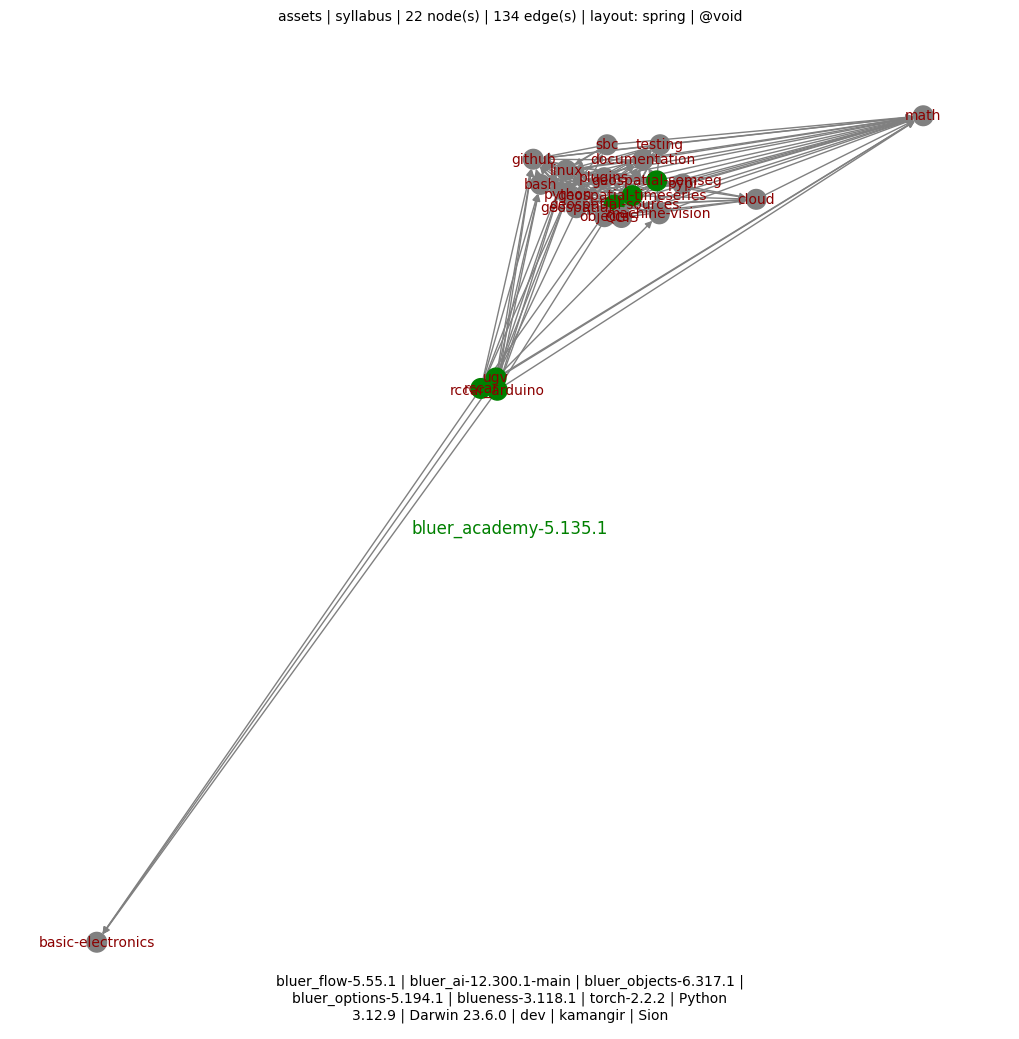
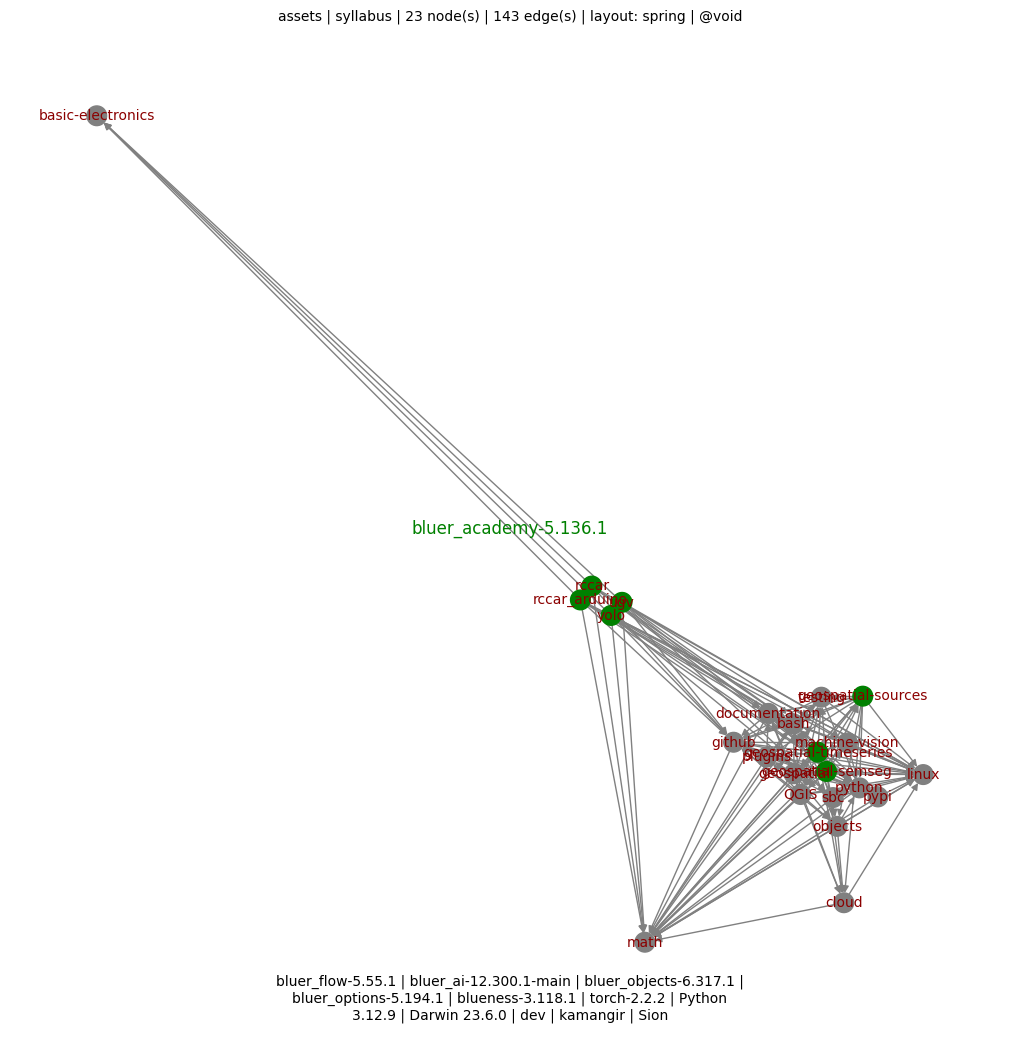
++ - kamangir/bolt#746

diff --git a/bluer_academy/academy/syllabus/yolo.py b/bluer_academy/academy/syllabus/yolo.py
@@ -1,0 +1,21 @@
+from bluer_objects.README.consts import assets_url
+
+
+from bluer_academy.academy.classes.topic import Topic
+from bluer_academy.academy.syllabus.consts import bluer_ugv_blob
+
+topic = Topic(
+    "yolo",
+    [
+        f"[Yolo on a UGV]({bluer_ugv_blob}/docs/arzhang/validation/village-3.md)",
+    ],
+    duration=3,
+    requires="machine-vision,ugv",
+    items={
+        assets_url(
+            "{object_name}/{object_name}.gif".format(
+                object_name="swallow-debug-2025-09-25-13-16-59-rnm7jd"
+            )
+        ): f"{bluer_ugv_blob}/docs/arzhang/validation/village-3.md"
+    },
+)

diff --git a/bluer_academy/academy/syllabus/__init__.py b/bluer_academy/academy/syllabus/__init__.py
@@ -22,6 +22,7 @@ from bluer_academy.academy.syllabus import (
     sbc,
     testing,
     ugv,
+    yolo,
 )
 
 syllabus = Syllabus(
@@ -50,6 +51,7 @@ syllabus = Syllabus(
             sbc,
             testing,
             ugv,
+            yolo,
         ]
     ]
 )

diff --git a/bluer_academy/__init__.py b/bluer_academy/__init__.py
@@ -4,7 +4,7 @@ ICON = "📐"
 
 DESCRIPTION = f"{ICON} an academy for practical AI in Iran."
 
-VERSION = "5.135.1"
+VERSION = "5.136.1"
 
 REPO_NAME = "bluer-academy"
 

diff --git a/bluer_academy/docs/academy/README.md b/bluer_academy/docs/academy/README.md
@@ -4,32 +4,33 @@
 
 ## syllabus
 
-| capstone project? | duration (hours) | duration, including requirements (hours) | depends on: | [bas...](./syllabus/basic-electronics.md) | [math](./syllabus/math.md) | [linux](./syllabus/linux.md) | [cloud](./syllabus/cloud.md) | [github](./syllabus/github.md) | [python](./syllabus/python.md) | [bash](./syllabus/bash.md) | [doc...](./syllabus/documentation.md) | [mac...](./syllabus/machine-vision.md) | [obj...](./syllabus/objects.md) | [pypi](./syllabus/pypi.md) | [sbc](./syllabus/sbc.md) | [tes...](./syllabus/testing.md) | [plu...](./syllabus/plugins.md) | [rccar](./syllabus/rccar.md) | [ugv](./syllabus/ugv.md) | [geo...](./syllabus/geospatial.md) | [rcc...](./syllabus/rccar_arduino.md) | [QGIS](./syllabus/QGIS.md) | [geo...](./syllabus/geospatial-sources.md) | [geo...](./syllabus/geospatial-semseg.md) | [geo...](./syllabus/geospatial-timeseries.md) |
-|-|-|-|-|-|-|-|-|-|-|-|-|-|-|-|-|-|-|-|-|-|-|-|-|-|-|
-|  | 6.0 | 6.0 | [basic-electronics](./syllabus/basic-electronics.md) |  |  |  |  |  |  |  |  |  |  |  |  |  |  |  |  |  |  |  |  |  |  |
-|  | 3.0 | 3.0 | [math](./syllabus/math.md) |  |  |  |  |  |  |  |  |  |  |  |  |  |  |  |  |  |  |  |  |  |  |
-|  | 3.0 | 6.0 | [linux](./syllabus/linux.md) |  | ℹ |  |  |  |  |  |  |  |  |  |  |  |  |  |  |  |  |  |  |  |  |
-|  | 6.0 | 12.0 | [cloud](./syllabus/cloud.md) |  | ℹ | ℹ |  |  |  |  |  |  |  |  |  |  |  |  |  |  |  |  |  |  |  |
-|  | 3.0 | 9.0 | [github](./syllabus/github.md) |  | ℹ | ℹ |  |  |  |  |  |  |  |  |  |  |  |  |  |  |  |  |  |  |  |
-|  | 12.0 | 21.0 | [python](./syllabus/python.md) |  | ℹ | ℹ |  | ℹ |  |  |  |  |  |  |  |  |  |  |  |  |  |  |  |  |  |
-|  | 3.0 | 24.0 | [bash](./syllabus/bash.md) |  | ℹ | ℹ |  | ℹ | ℹ |  |  |  |  |  |  |  |  |  |  |  |  |  |  |  |  |
-|  | 3.0 | 27.0 | [documentation](./syllabus/documentation.md) |  | ℹ | ℹ |  | ℹ | ℹ | ℹ |  |  |  |  |  |  |  |  |  |  |  |  |  |  |  |
-|  | 12.0 | 36.0 | [machine-vision](./syllabus/machine-vision.md) |  | ℹ | ℹ |  | ℹ | ℹ | ℹ |  |  |  |  |  |  |  |  |  |  |  |  |  |  |  |
-|  | 3.0 | 33.0 | [objects](./syllabus/objects.md) |  | ℹ | ℹ | ℹ | ℹ | ℹ | ℹ |  |  |  |  |  |  |  |  |  |  |  |  |  |  |  |
-|  | 3.0 | 27.0 | [pypi](./syllabus/pypi.md) |  | ℹ | ℹ |  | ℹ | ℹ | ℹ |  |  |  |  |  |  |  |  |  |  |  |  |  |  |  |
-|  | 3.0 | 27.0 | [sbc](./syllabus/sbc.md) |  | ℹ | ℹ |  | ℹ | ℹ | ℹ |  |  |  |  |  |  |  |  |  |  |  |  |  |  |  |
-|  | 6.0 | 30.0 | [testing](./syllabus/testing.md) |  | ℹ | ℹ |  | ℹ | ℹ | ℹ |  |  |  |  |  |  |  |  |  |  |  |  |  |  |  |
-|  | 3.0 | 36.0 | [plugins](./syllabus/plugins.md) |  | ℹ | ℹ |  | ℹ | ℹ | ℹ | ℹ |  |  |  |  | ℹ |  |  |  |  |  |  |  |  |  |
-| 📐 | 3.0 | 36.0 | [rccar](./syllabus/rccar.md) | ℹ | ℹ | ℹ |  | ℹ | ℹ | ℹ | ℹ |  |  |  |  |  |  |  |  |  |  |  |  |  |  |
-| 📐 | 12.0 | 57.0 | [ugv](./syllabus/ugv.md) | ℹ | ℹ | ℹ |  | ℹ | ℹ | ℹ |  | ℹ |  |  | ℹ |  |  |  |  |  |  |  |  |  |  |
-|  | 6.0 | 51.0 | [geospatial](./syllabus/geospatial.md) |  | ℹ | ℹ | ℹ | ℹ | ℹ | ℹ | ℹ |  | ℹ |  |  | ℹ | ℹ |  |  |  |  |  |  |  |  |
-| 📐 | 6.0 | 42.0 | [rccar_arduino](./syllabus/rccar_arduino.md) | ℹ | ℹ | ℹ |  | ℹ | ℹ | ℹ | ℹ |  |  |  |  |  |  | ℹ |  |  |  |  |  |  |  |
-|  | 3.0 | 54.0 | [QGIS](./syllabus/QGIS.md) |  | ℹ | ℹ | ℹ | ℹ | ℹ | ℹ | ℹ |  | ℹ |  |  | ℹ | ℹ |  |  | ℹ |  |  |  |  |  |
-| 📐 | 6.0 | 60.0 | [geospatial-sources](./syllabus/geospatial-sources.md) |  | ℹ | ℹ | ℹ | ℹ | ℹ | ℹ | ℹ |  | ℹ |  |  | ℹ | ℹ |  |  | ℹ |  | ℹ |  |  |  |
-| 📐 | 6.0 | 78.0 | [geospatial-semseg](./syllabus/geospatial-semseg.md) |  | ℹ | ℹ | ℹ | ℹ | ℹ | ℹ | ℹ | ℹ | ℹ |  |  | ℹ | ℹ |  |  | ℹ |  | ℹ | ℹ |  |  |
-| 📐 | 6.0 | 78.0 | [geospatial-timeseries](./syllabus/geospatial-timeseries.md) |  | ℹ | ℹ | ℹ | ℹ | ℹ | ℹ | ℹ | ℹ | ℹ |  |  | ℹ | ℹ |  |  | ℹ |  | ℹ | ℹ |  |  |
+| capstone project? | duration (hours) | duration, including requirements (hours) | depends on: | [bas...](./syllabus/basic-electronics.md) | [math](./syllabus/math.md) | [linux](./syllabus/linux.md) | [cloud](./syllabus/cloud.md) | [github](./syllabus/github.md) | [python](./syllabus/python.md) | [bash](./syllabus/bash.md) | [doc...](./syllabus/documentation.md) | [mac...](./syllabus/machine-vision.md) | [obj...](./syllabus/objects.md) | [pypi](./syllabus/pypi.md) | [sbc](./syllabus/sbc.md) | [tes...](./syllabus/testing.md) | [plu...](./syllabus/plugins.md) | [rccar](./syllabus/rccar.md) | [ugv](./syllabus/ugv.md) | [geo...](./syllabus/geospatial.md) | [rcc...](./syllabus/rccar_arduino.md) | [yolo](./syllabus/yolo.md) | [QGIS](./syllabus/QGIS.md) | [geo...](./syllabus/geospatial-sources.md) | [geo...](./syllabus/geospatial-semseg.md) | [geo...](./syllabus/geospatial-timeseries.md) |
+|-|-|-|-|-|-|-|-|-|-|-|-|-|-|-|-|-|-|-|-|-|-|-|-|-|-|-|
+|  | 6.0 | 6.0 | [basic-electronics](./syllabus/basic-electronics.md) |  |  |  |  |  |  |  |  |  |  |  |  |  |  |  |  |  |  |  |  |  |  |  |
+|  | 3.0 | 3.0 | [math](./syllabus/math.md) |  |  |  |  |  |  |  |  |  |  |  |  |  |  |  |  |  |  |  |  |  |  |  |
+|  | 3.0 | 6.0 | [linux](./syllabus/linux.md) |  | ℹ |  |  |  |  |  |  |  |  |  |  |  |  |  |  |  |  |  |  |  |  |  |
+|  | 6.0 | 12.0 | [cloud](./syllabus/cloud.md) |  | ℹ | ℹ |  |  |  |  |  |  |  |  |  |  |  |  |  |  |  |  |  |  |  |  |
+|  | 3.0 | 9.0 | [github](./syllabus/github.md) |  | ℹ | ℹ |  |  |  |  |  |  |  |  |  |  |  |  |  |  |  |  |  |  |  |  |
+|  | 12.0 | 21.0 | [python](./syllabus/python.md) |  | ℹ | ℹ |  | ℹ |  |  |  |  |  |  |  |  |  |  |  |  |  |  |  |  |  |  |
+|  | 3.0 | 24.0 | [bash](./syllabus/bash.md) |  | ℹ | ℹ |  | ℹ | ℹ |  |  |  |  |  |  |  |  |  |  |  |  |  |  |  |  |  |
+|  | 3.0 | 27.0 | [documentation](./syllabus/documentation.md) |  | ℹ | ℹ |  | ℹ | ℹ | ℹ |  |  |  |  |  |  |  |  |  |  |  |  |  |  |  |  |
+|  | 12.0 | 36.0 | [machine-vision](./syllabus/machine-vision.md) |  | ℹ | ℹ |  | ℹ | ℹ | ℹ |  |  |  |  |  |  |  |  |  |  |  |  |  |  |  |  |
+|  | 3.0 | 33.0 | [objects](./syllabus/objects.md) |  | ℹ | ℹ | ℹ | ℹ | ℹ | ℹ |  |  |  |  |  |  |  |  |  |  |  |  |  |  |  |  |
+|  | 3.0 | 27.0 | [pypi](./syllabus/pypi.md) |  | ℹ | ℹ |  | ℹ | ℹ | ℹ |  |  |  |  |  |  |  |  |  |  |  |  |  |  |  |  |
+|  | 3.0 | 27.0 | [sbc](./syllabus/sbc.md) |  | ℹ | ℹ |  | ℹ | ℹ | ℹ |  |  |  |  |  |  |  |  |  |  |  |  |  |  |  |  |
+|  | 6.0 | 30.0 | [testing](./syllabus/testing.md) |  | ℹ | ℹ |  | ℹ | ℹ | ℹ |  |  |  |  |  |  |  |  |  |  |  |  |  |  |  |  |
+|  | 3.0 | 36.0 | [plugins](./syllabus/plugins.md) |  | ℹ | ℹ |  | ℹ | ℹ | ℹ | ℹ |  |  |  |  | ℹ |  |  |  |  |  |  |  |  |  |  |
+| 📐 | 3.0 | 36.0 | [rccar](./syllabus/rccar.md) | ℹ | ℹ | ℹ |  | ℹ | ℹ | ℹ | ℹ |  |  |  |  |  |  |  |  |  |  |  |  |  |  |  |
+| 📐 | 12.0 | 57.0 | [ugv](./syllabus/ugv.md) | ℹ | ℹ | ℹ |  | ℹ | ℹ | ℹ |  | ℹ |  |  | ℹ |  |  |  |  |  |  |  |  |  |  |  |
+|  | 6.0 | 51.0 | [geospatial](./syllabus/geospatial.md) |  | ℹ | ℹ | ℹ | ℹ | ℹ | ℹ | ℹ |  | ℹ |  |  | ℹ | ℹ |  |  |  |  |  |  |  |  |  |
+| 📐 | 6.0 | 42.0 | [rccar_arduino](./syllabus/rccar_arduino.md) | ℹ | ℹ | ℹ |  | ℹ | ℹ | ℹ | ℹ |  |  |  |  |  |  | ℹ |  |  |  |  |  |  |  |  |
+| 📐 | 3.0 | 60.0 | [yolo](./syllabus/yolo.md) | ℹ | ℹ | ℹ |  | ℹ | ℹ | ℹ |  | ℹ |  |  | ℹ |  |  |  | ℹ |  |  |  |  |  |  |  |
+|  | 3.0 | 54.0 | [QGIS](./syllabus/QGIS.md) |  | ℹ | ℹ | ℹ | ℹ | ℹ | ℹ | ℹ |  | ℹ |  |  | ℹ | ℹ |  |  | ℹ |  |  |  |  |  |  |
+| 📐 | 6.0 | 60.0 | [geospatial-sources](./syllabus/geospatial-sources.md) |  | ℹ | ℹ | ℹ | ℹ | ℹ | ℹ | ℹ |  | ℹ |  |  | ℹ | ℹ |  |  | ℹ |  |  | ℹ |  |  |  |
+| 📐 | 6.0 | 78.0 | [geospatial-semseg](./syllabus/geospatial-semseg.md) |  | ℹ | ℹ | ℹ | ℹ | ℹ | ℹ | ℹ | ℹ | ℹ |  |  | ℹ | ℹ |  |  | ℹ |  |  | ℹ | ℹ |  |  |
+| 📐 | 6.0 | 78.0 | [geospatial-timeseries](./syllabus/geospatial-timeseries.md) |  | ℹ | ℹ | ℹ | ℹ | ℹ | ℹ | ℹ | ℹ | ℹ |  |  | ℹ | ℹ |  |  | ℹ |  |  | ℹ | ℹ |  |  |
 
-⏳ total duration: 117.0 hours
+⏳ total duration: 120.0 hours
 
 
 <details>
@@ -46,3 +47,4 @@
 | --- | --- | --- |
 | [![image](https://github.com/kamangir/assets/raw/main/palisades/palisades-analytics-2025-01-28-09-27-20-itglyy/thumbnail-039462-378510-palisades-analytics-2025-01-28-09-27-20-itglyy.gif?raw=true)](./syllabus/geospatial-semseg.md) | [![image](https://github.com/kamangir/assets/raw/main/blue-geo/Maxar-Open-Datacube.png?raw=true)](./syllabus/geospatial-sources.md) | [![image](https://github.com/kamangir/assets/raw/main/geo-watch-2025-05-23-2ck64x/geo-watch-2025-05-23-2ck64x.gif?raw=true)](./syllabus/geospatial-timeseries.md) |
 | [![image](https://github.com/kamangir/assets2/raw/main/ravin/20250723_095155~2_1.gif?raw=true)](./syllabus/rccar.md) | [![image](https://github.com/kamangir/assets2/raw/main/ravin4/20251014_164022.jpg?raw=true)](./syllabus/rccar_arduino.md) | [![image](https://github.com/kamangir/assets2/raw/main/arzhang/VID-20250905-WA0014_1.gif?raw=true)](./syllabus/ugv.md) |
+| [![image](https://github.com/kamangir/assets/raw/main/swallow-debug-2025-09-25-13-16-59-rnm7jd/swallow-debug-2025-09-25-13-16-59-rnm7jd.gif?raw=true)](./syllabus/yolo.md) |  |  |

diff --git a/bluer_academy/docs/academy/syllabus/math.md b/bluer_academy/docs/academy/syllabus/math.md
@@ -7,7 +7,7 @@ includes:
 ---
 
 
-➡ required for: [linux](./linux.md), [cloud](./cloud.md), [github](./github.md), [python](./python.md), [bash](./bash.md), [documentation](./documentation.md), [machine-vision](./machine-vision.md), [objects](./objects.md), [pypi](./pypi.md), [sbc](./sbc.md), [testing](./testing.md), [plugins](./plugins.md), [rccar](./rccar.md), [ugv](./ugv.md), [geospatial](./geospatial.md), [rccar_arduino](./rccar_arduino.md), [QGIS](./QGIS.md), [geospatial-sources](./geospatial-sources.md), [geospatial-semseg](./geospatial-semseg.md), [geospatial-timeseries](./geospatial-timeseries.md)
+➡ required for: [linux](./linux.md), [cloud](./cloud.md), [github](./github.md), [python](./python.md), [bash](./bash.md), [documentation](./documentation.md), [machine-vision](./machine-vision.md), [objects](./objects.md), [pypi](./pypi.md), [sbc](./sbc.md), [testing](./testing.md), [plugins](./plugins.md), [rccar](./rccar.md), [ugv](./ugv.md), [geospatial](./geospatial.md), [rccar_arduino](./rccar_arduino.md), [yolo](./yolo.md), [QGIS](./QGIS.md), [geospatial-sources](./geospatial-sources.md), [geospatial-semseg](./geospatial-semseg.md), [geospatial-timeseries](./geospatial-timeseries.md)
 
 ⏳ duration (hours): 3.0 - including requirements: 3.0
 

diff --git a/bluer_academy/docs/academy/syllabus/linux.md b/bluer_academy/docs/academy/syllabus/linux.md
@@ -7,7 +7,7 @@ includes:
 
 ⬅ requires: [math](./math.md)
 
-➡ required for: [cloud](./cloud.md), [github](./github.md), [python](./python.md), [bash](./bash.md), [documentation](./documentation.md), [machine-vision](./machine-vision.md), [objects](./objects.md), [pypi](./pypi.md), [sbc](./sbc.md), [testing](./testing.md), [plugins](./plugins.md), [rccar](./rccar.md), [ugv](./ugv.md), [geospatial](./geospatial.md), [rccar_arduino](./rccar_arduino.md), [QGIS](./QGIS.md), [geospatial-sources](./geospatial-sources.md), [geospatial-semseg](./geospatial-semseg.md), [geospatial-timeseries](./geospatial-timeseries.md)
+➡ required for: [cloud](./cloud.md), [github](./github.md), [python](./python.md), [bash](./bash.md), [documentation](./documentation.md), [machine-vision](./machine-vision.md), [objects](./objects.md), [pypi](./pypi.md), [sbc](./sbc.md), [testing](./testing.md), [plugins](./plugins.md), [rccar](./rccar.md), [ugv](./ugv.md), [geospatial](./geospatial.md), [rccar_arduino](./rccar_arduino.md), [yolo](./yolo.md), [QGIS](./QGIS.md), [geospatial-sources](./geospatial-sources.md), [geospatial-semseg](./geospatial-semseg.md), [geospatial-timeseries](./geospatial-timeseries.md)
 
 ⏳ duration (hours): 3.0 - including requirements: 6.0
 

diff --git a/bluer_academy/docs/academy/syllabus/github.md b/bluer_academy/docs/academy/syllabus/github.md
@@ -10,7 +10,7 @@ includes:
 
 ⬅ requires: [linux](./linux.md), [math](./math.md)
 
-➡ required for: [python](./python.md), [bash](./bash.md), [documentation](./documentation.md), [machine-vision](./machine-vision.md), [objects](./objects.md), [pypi](./pypi.md), [sbc](./sbc.md), [testing](./testing.md), [plugins](./plugins.md), [rccar](./rccar.md), [ugv](./ugv.md), [geospatial](./geospatial.md), [rccar_arduino](./rccar_arduino.md), [QGIS](./QGIS.md), [geospatial-sources](./geospatial-sources.md), [geospatial-semseg](./geospatial-semseg.md), [geospatial-timeseries](./geospatial-timeseries.md)
+➡ required for: [python](./python.md), [bash](./bash.md), [documentation](./documentation.md), [machine-vision](./machine-vision.md), [objects](./objects.md), [pypi](./pypi.md), [sbc](./sbc.md), [testing](./testing.md), [plugins](./plugins.md), [rccar](./rccar.md), [ugv](./ugv.md), [geospatial](./geospatial.md), [rccar_arduino](./rccar_arduino.md), [yolo](./yolo.md), [QGIS](./QGIS.md), [geospatial-sources](./geospatial-sources.md), [geospatial-semseg](./geospatial-semseg.md), [geospatial-timeseries](./geospatial-timeseries.md)
 
 ⏳ duration (hours): 3.0 - including requirements: 9.0
 

diff --git a/bluer_academy/docs/academy/syllabus/python.md b/bluer_academy/docs/academy/syllabus/python.md
@@ -12,7 +12,7 @@ includes:
 
 ⬅ requires: [github](./github.md), [linux](./linux.md), [math](./math.md)
 
-➡ required for: [bash](./bash.md), [documentation](./documentation.md), [machine-vision](./machine-vision.md), [objects](./objects.md), [pypi](./pypi.md), [sbc](./sbc.md), [testing](./testing.md), [plugins](./plugins.md), [rccar](./rccar.md), [ugv](./ugv.md), [geospatial](./geospatial.md), [rccar_arduino](./rccar_arduino.md), [QGIS](./QGIS.md), [geospatial-sources](./geospatial-sources.md), [geospatial-semseg](./geospatial-semseg.md), [geospatial-timeseries](./geospatial-timeseries.md)
+➡ required for: [bash](./bash.md), [documentation](./documentation.md), [machine-vision](./machine-vision.md), [objects](./objects.md), [pypi](./pypi.md), [sbc](./sbc.md), [testing](./testing.md), [plugins](./plugins.md), [rccar](./rccar.md), [ugv](./ugv.md), [geospatial](./geospatial.md), [rccar_arduino](./rccar_arduino.md), [yolo](./yolo.md), [QGIS](./QGIS.md), [geospatial-sources](./geospatial-sources.md), [geospatial-semseg](./geospatial-semseg.md), [geospatial-timeseries](./geospatial-timeseries.md)
 
 ⏳ duration (hours): 12.0 - including requirements: 21.0
 

diff --git a/bluer_academy/docs/academy/syllabus/bash.md b/bluer_academy/docs/academy/syllabus/bash.md
@@ -10,7 +10,7 @@ includes:
 
 ⬅ requires: [github](./github.md), [linux](./linux.md), [math](./math.md), [python](./python.md)
 
-➡ required for: [documentation](./documentation.md), [machine-vision](./machine-vision.md), [objects](./objects.md), [pypi](./pypi.md), [sbc](./sbc.md), [testing](./testing.md), [plugins](./plugins.md), [rccar](./rccar.md), [ugv](./ugv.md), [geospatial](./geospatial.md), [rccar_arduino](./rccar_arduino.md), [QGIS](./QGIS.md), [geospatial-sources](./geospatial-sources.md), [geospatial-semseg](./geospatial-semseg.md), [geospatial-timeseries](./geospatial-timeseries.md)
+➡ required for: [documentation](./documentation.md), [machine-vision](./machine-vision.md), [objects](./objects.md), [pypi](./pypi.md), [sbc](./sbc.md), [testing](./testing.md), [plugins](./plugins.md), [rccar](./rccar.md), [ugv](./ugv.md), [geospatial](./geospatial.md), [rccar_arduino](./rccar_arduino.md), [yolo](./yolo.md), [QGIS](./QGIS.md), [geospatial-sources](./geospatial-sources.md), [geospatial-semseg](./geospatial-semseg.md), [geospatial-timeseries](./geospatial-timeseries.md)
 
 ⏳ duration (hours): 3.0 - including requirements: 24.0
 

diff --git a/README.md b/README.md
@@ -15,4 +15,4 @@ pip install bluer-academy
 
 [![pylint](https://github.com/kamangir/bluer-academy/actions/workflows/pylint.yml/badge.svg)](https://github.com/kamangir/bluer-academy/actions/workflows/pylint.yml) [![pytest](https://github.com/kamangir/bluer-academy/actions/workflows/pytest.yml/badge.svg)](https://github.com/kamangir/bluer-academy/actions/workflows/pytest.yml) [![bashtest](https://github.com/kamangir/bluer-academy/actions/workflows/bashtest.yml/badge.svg)](https://github.com/kamangir/bluer-academy/actions/workflows/bashtest.yml) [![PyPI version](https://img.shields.io/pypi/v/bluer-academy.svg)](https://pypi.org/project/bluer-academy/) [![PyPI - Downloads](https://img.shields.io/pypi/dd/bluer-academy)](https://pypistats.org/packages/bluer-academy)
 
-built by 🌀 [`bluer README`](https://github.com/kamangir/bluer-objects/tree/main/bluer_objects/README), based on 📐 [`bluer_academy-5.135.1`](https://github.com/kamangir/bluer-academy).
+built by 🌀 [`bluer README`](https://github.com/kamangir/bluer-objects/tree/main/bluer_objects/README), based on 📐 [`bluer_academy-5.136.1`](https://github.com/kamangir/bluer-academy).

diff --git a/bluer_academy/docs/academy/syllabus/yolo.md b/bluer_academy/docs/academy/syllabus/yolo.md
@@ -1,0 +1,15 @@
+# academy: syllabus: yolo
+
+includes:
+- [Yolo on a UGV](https://github.com/kamangir/bluer-ugv/blob/main/bluer_ugv/docs/arzhang/validation/village-3.md).
+
+---
+
+⬅ requires: [bash](./bash.md), [basic-electronics](./basic-electronics.md), [github](./github.md), [linux](./linux.md), [machine-vision](./machine-vision.md), [math](./math.md), [python](./python.md), [sbc](./sbc.md), [ugv](./ugv.md)
+
+
+⏳ duration (hours): 3.0 - including requirements: 60.0
+
+|   |
+| --- |
+| [![image](https://github.com/kamangir/assets/raw/main/swallow-debug-2025-09-25-13-16-59-rnm7jd/swallow-debug-2025-09-25-13-16-59-rnm7jd.gif?raw=true)](https://github.com/kamangir/bluer-ugv/blob/main/bluer_ugv/docs/arzhang/validation/village-3.md) |

diff --git a/bluer_academy/docs/academy/syllabus/machine-vision.md b/bluer_academy/docs/academy/syllabus/machine-vision.md
@@ -12,7 +12,7 @@ includes:
 
 ⬅ requires: [bash](./bash.md), [github](./github.md), [linux](./linux.md), [math](./math.md), [python](./python.md)
 
-➡ required for: [ugv](./ugv.md), [geospatial-semseg](./geospatial-semseg.md), [geospatial-timeseries](./geospatial-timeseries.md)
+➡ required for: [ugv](./ugv.md), [yolo](./yolo.md), [geospatial-semseg](./geospatial-semseg.md), [geospatial-timeseries](./geospatial-timeseries.md)
 
 ⏳ duration (hours): 12.0 - including requirements: 36.0
 
